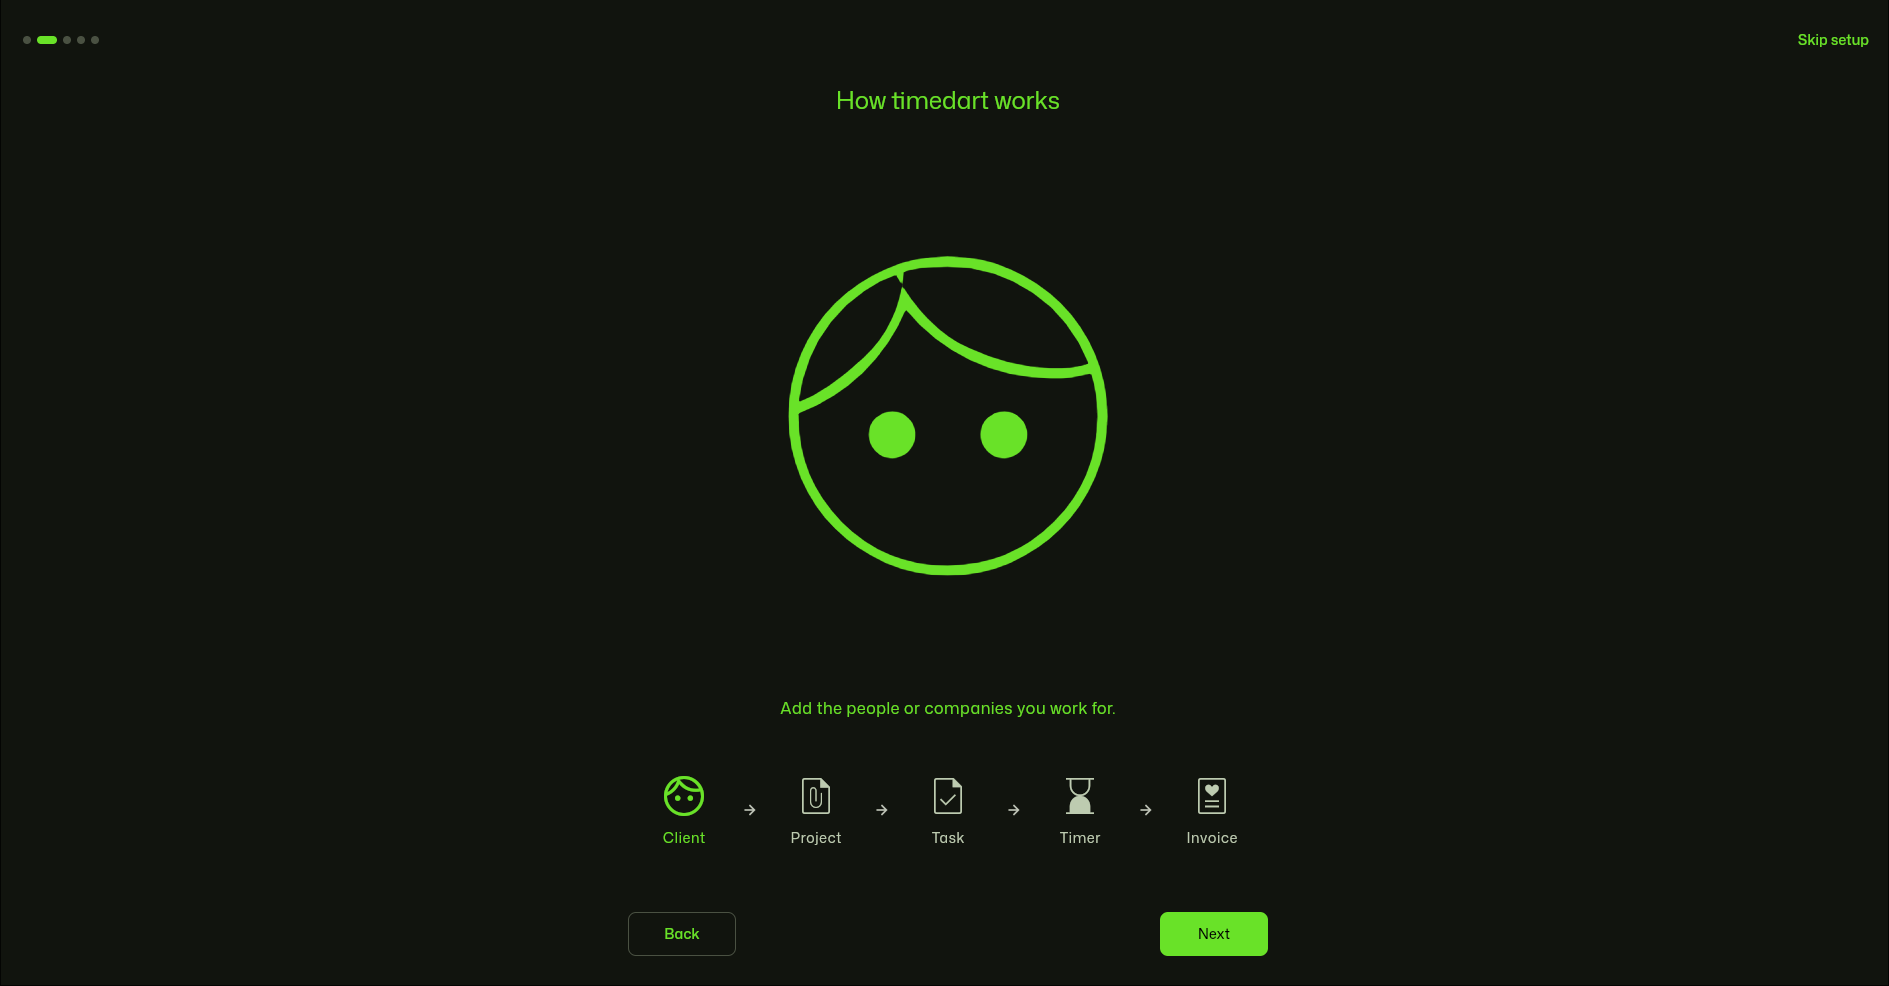
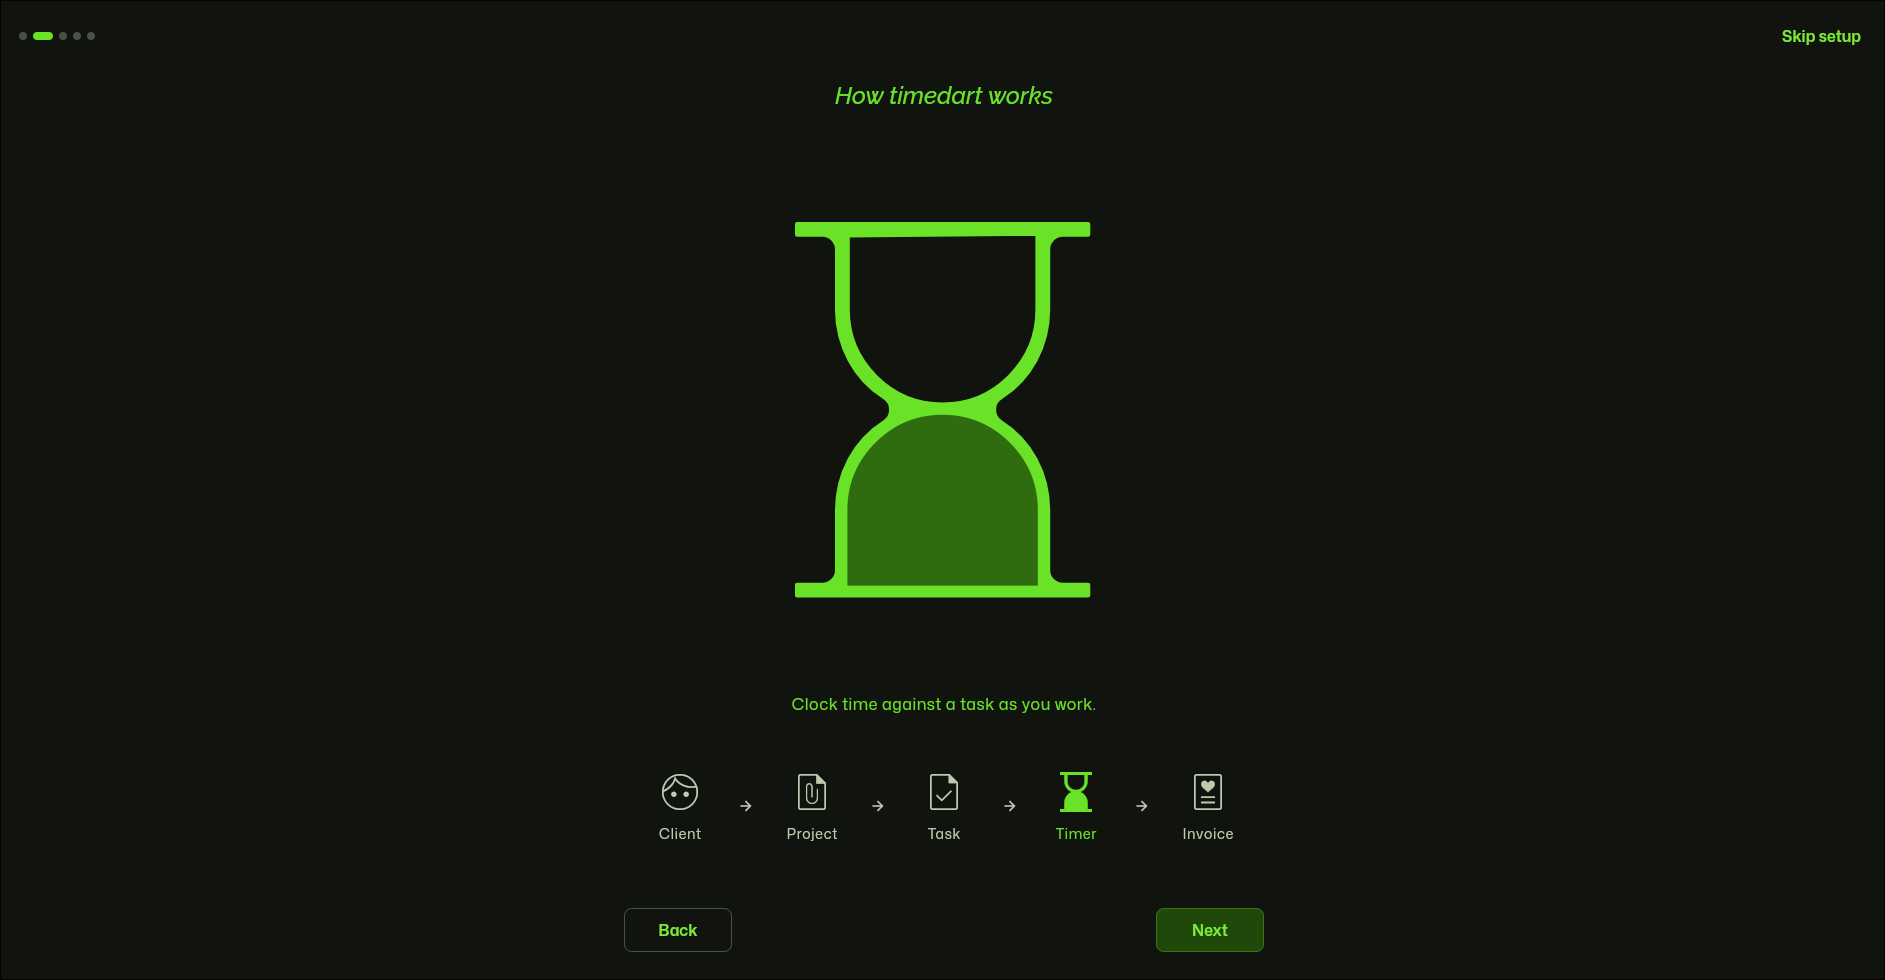
docs: README download section + refreshed onboarding screenshot
- Add a Download section (Linux/Windows/macOS/Android from the Releases page,
  with per-OS first-launch notes + the beta/unsigned caveat); rename the old
  source instructions to "Build from source".
- Header: platforms badge now includes Android, add a download badge, nav points
  to #download.
- Update docs/media/onboarding.png.

diff --git a/README.md b/README.md
@@ -12,8 +12,9 @@
 <p align="center">
   <img alt="License: MIT" src="https://img.shields.io/badge/license-MIT-69e228.svg">
   <img alt="Built with Flutter" src="https://img.shields.io/badge/built%20with-Flutter-02569B.svg?logo=flutter&logoColor=white">
-  <img alt="Platforms" src="https://img.shields.io/badge/desktop-Linux%20·%20macOS%20·%20Windows-4a5142.svg">
+  <img alt="Platforms" src="https://img.shields.io/badge/platforms-Linux%20·%20macOS%20·%20Windows%20·%20Android-4a5142.svg">
   <img alt="Local-first" src="https://img.shields.io/badge/data-local--first-69e228.svg">
+  <a href="https://github.com/craftox-labs/timedart/releases"><img alt="Download" src="https://img.shields.io/badge/download-beta-69e228.svg"></a>
   <a href="https://timedart.netlify.app"><img alt="Website" src="https://img.shields.io/badge/website-timedart.netlify.app-69e228.svg"></a>
   <a href="https://timedart-demo.netlify.app"><img alt="Live demo" src="https://img.shields.io/badge/try-live%20demo-1f480a.svg"></a>
 </p>
@@ -32,7 +33,7 @@
   <a href="#feature-tour">Features</a> ·
   <a href="#keyboard">Keyboard</a> ·
   <a href="https://timedart-demo.netlify.app">Demo</a> ·
-  <a href="#install">Install</a> ·
+  <a href="#download">Download</a> ·
   <a href="#roadmap">Roadmap</a>
 </p>
 
@@ -120,7 +121,25 @@ timedart is built to be flown from the keyboard. Navigation is identical across 
 > `j`/`k` before the page sees them. The keyboard experience is complete in the desktop build; on the
 > web, disable such extensions for the demo site (or just use the mouse).
 
-## Install
+## Download
+
+**timedart is in open beta (`v0.9.0-beta`).** Grab a build from the
+[**Releases page**](https://github.com/craftox-labs/timedart/releases):
+
+| Platform | Download | First launch |
+|---|---|---|
+| **Linux** | `AppImage` or `tar.gz` | `chmod +x`, run — no install |
+| **Windows** | portable `.zip` | SmartScreen → More info → Run anyway |
+| **macOS** | universal `.zip` (Intel + Apple Silicon) | right-click → Open (unsigned) |
+| **Android** | `.apk` | allow install from unknown sources |
+
+Beta builds are unsigned (bar the Android upload key), so your OS asks you to confirm the first
+launch — that's expected for a direct download, not a problem with the app. Data never leaves your
+machine.
+
+> Pre-1.0 while in beta: the local database format may still change between versions.
+
+## Build from source
 
 Requires the Flutter SDK ([install guide](https://docs.flutter.dev/get-started/install)).
 